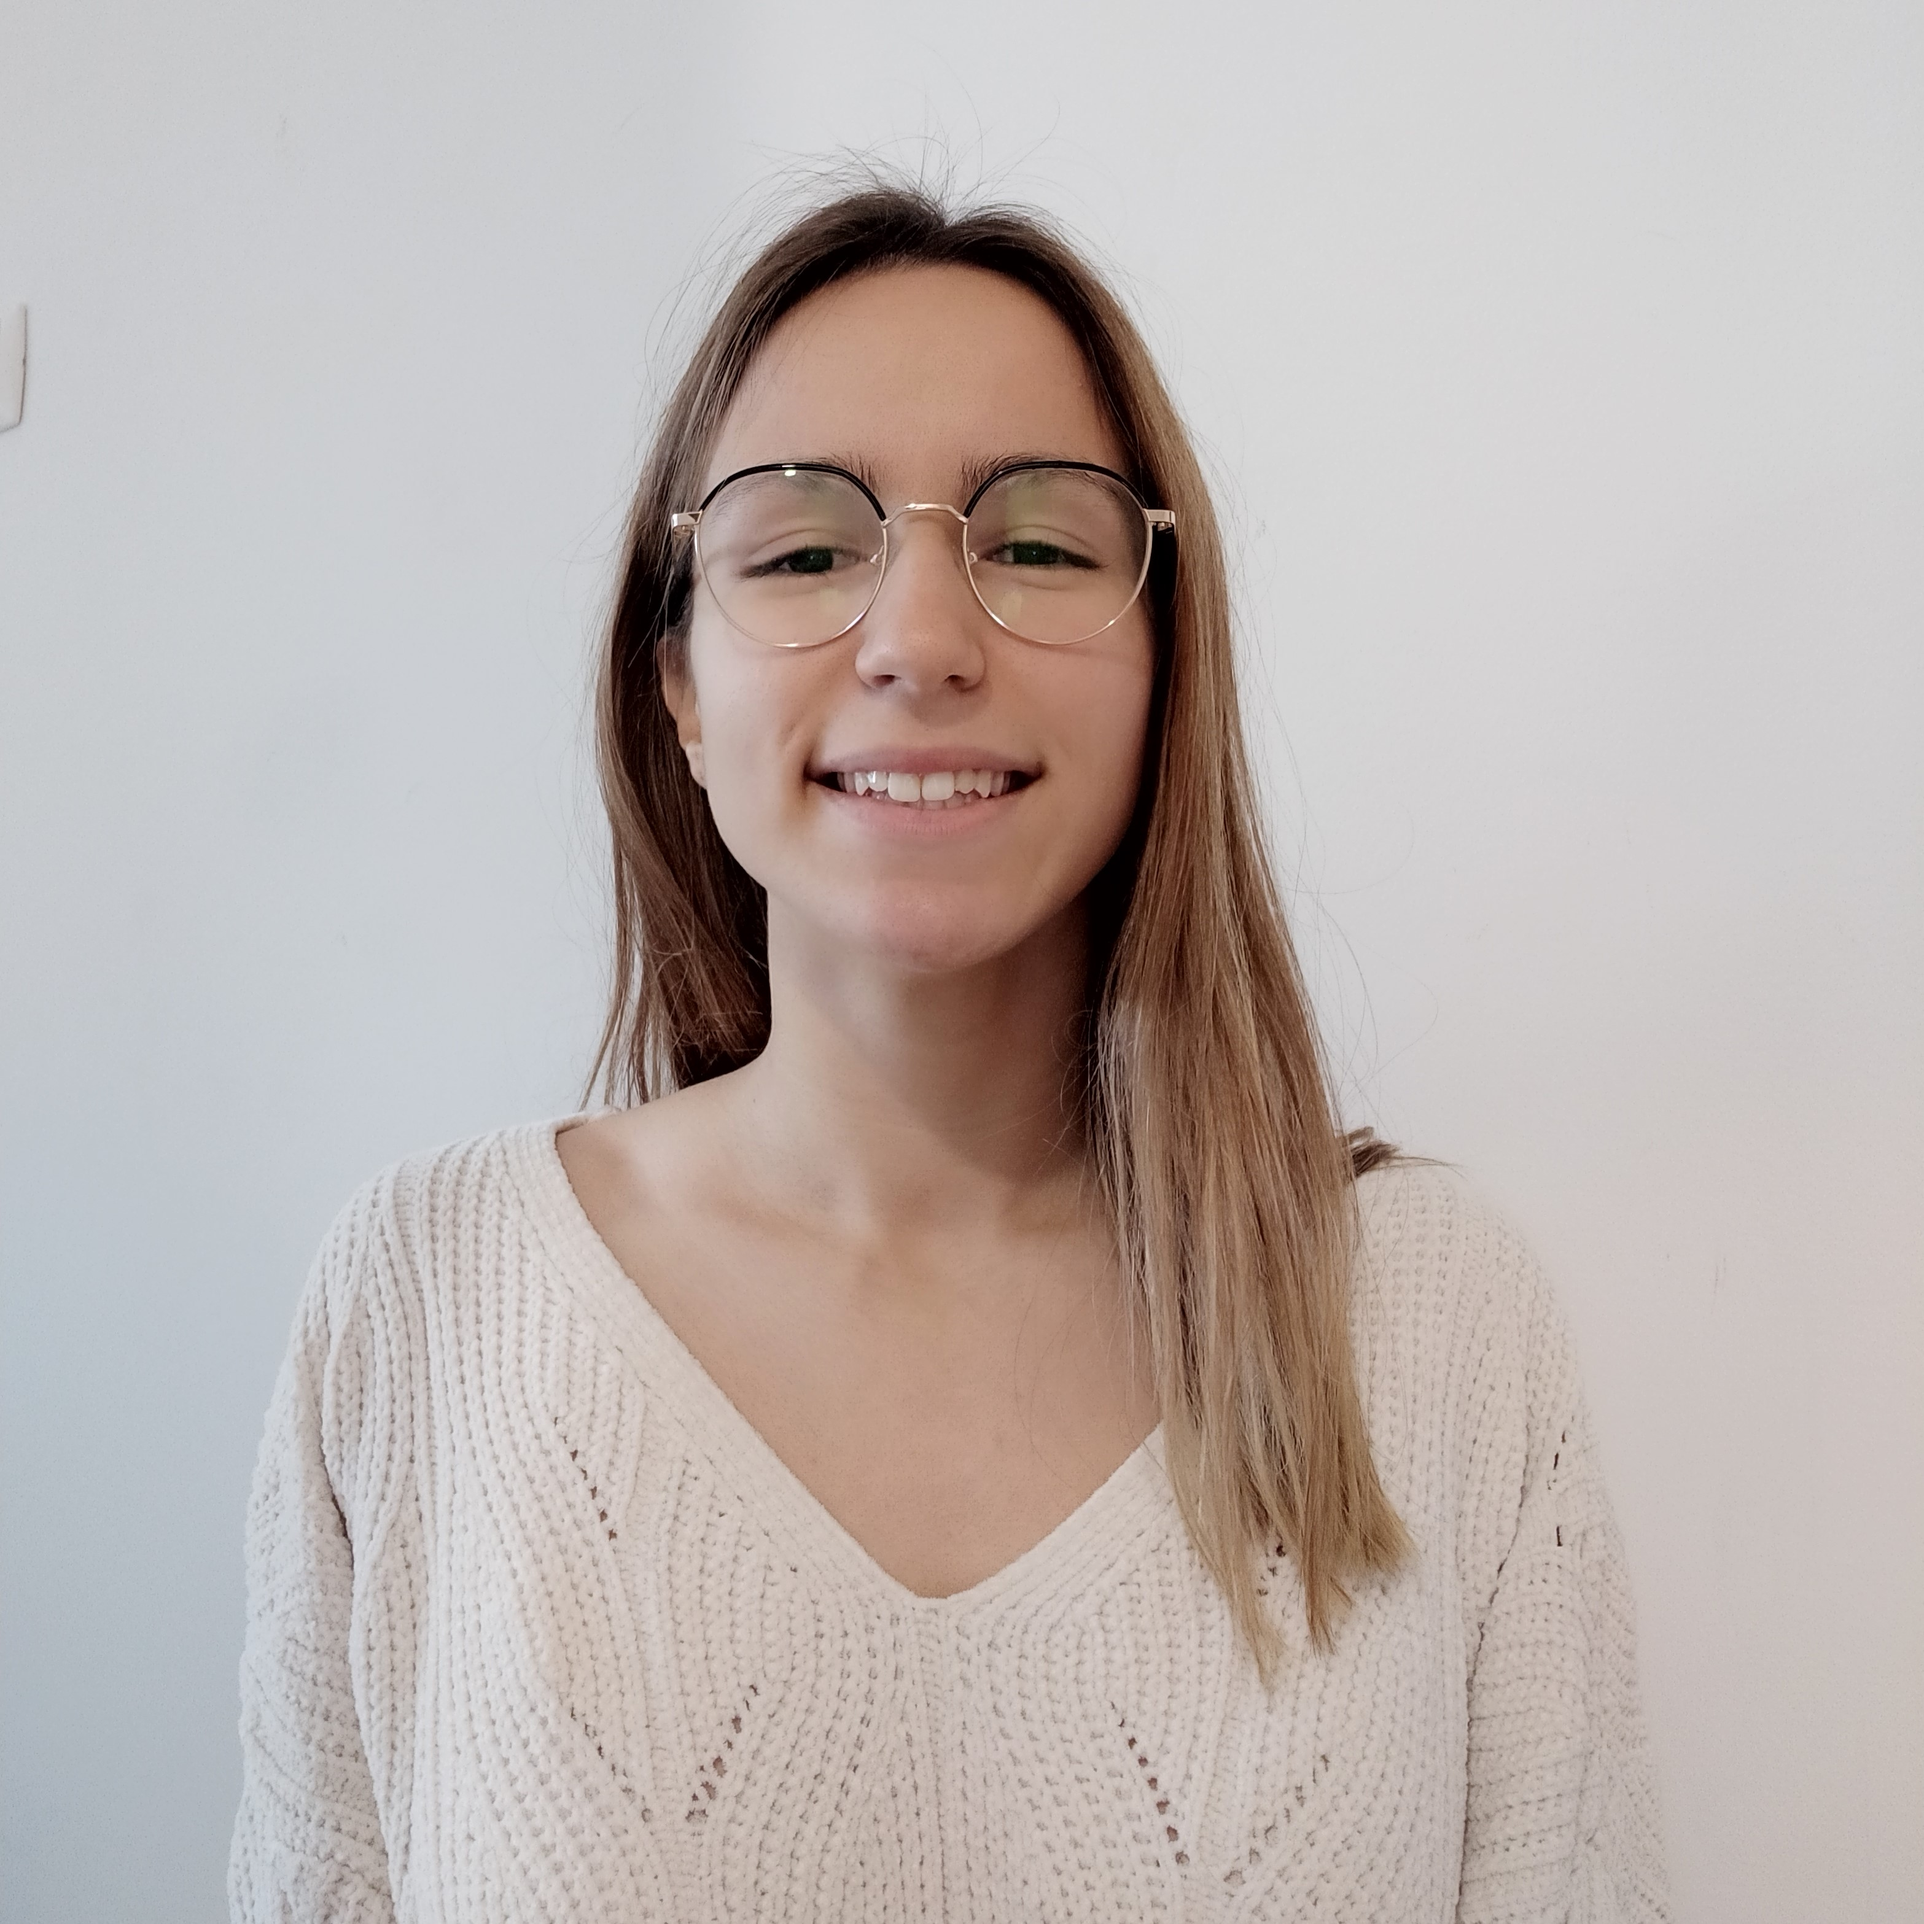
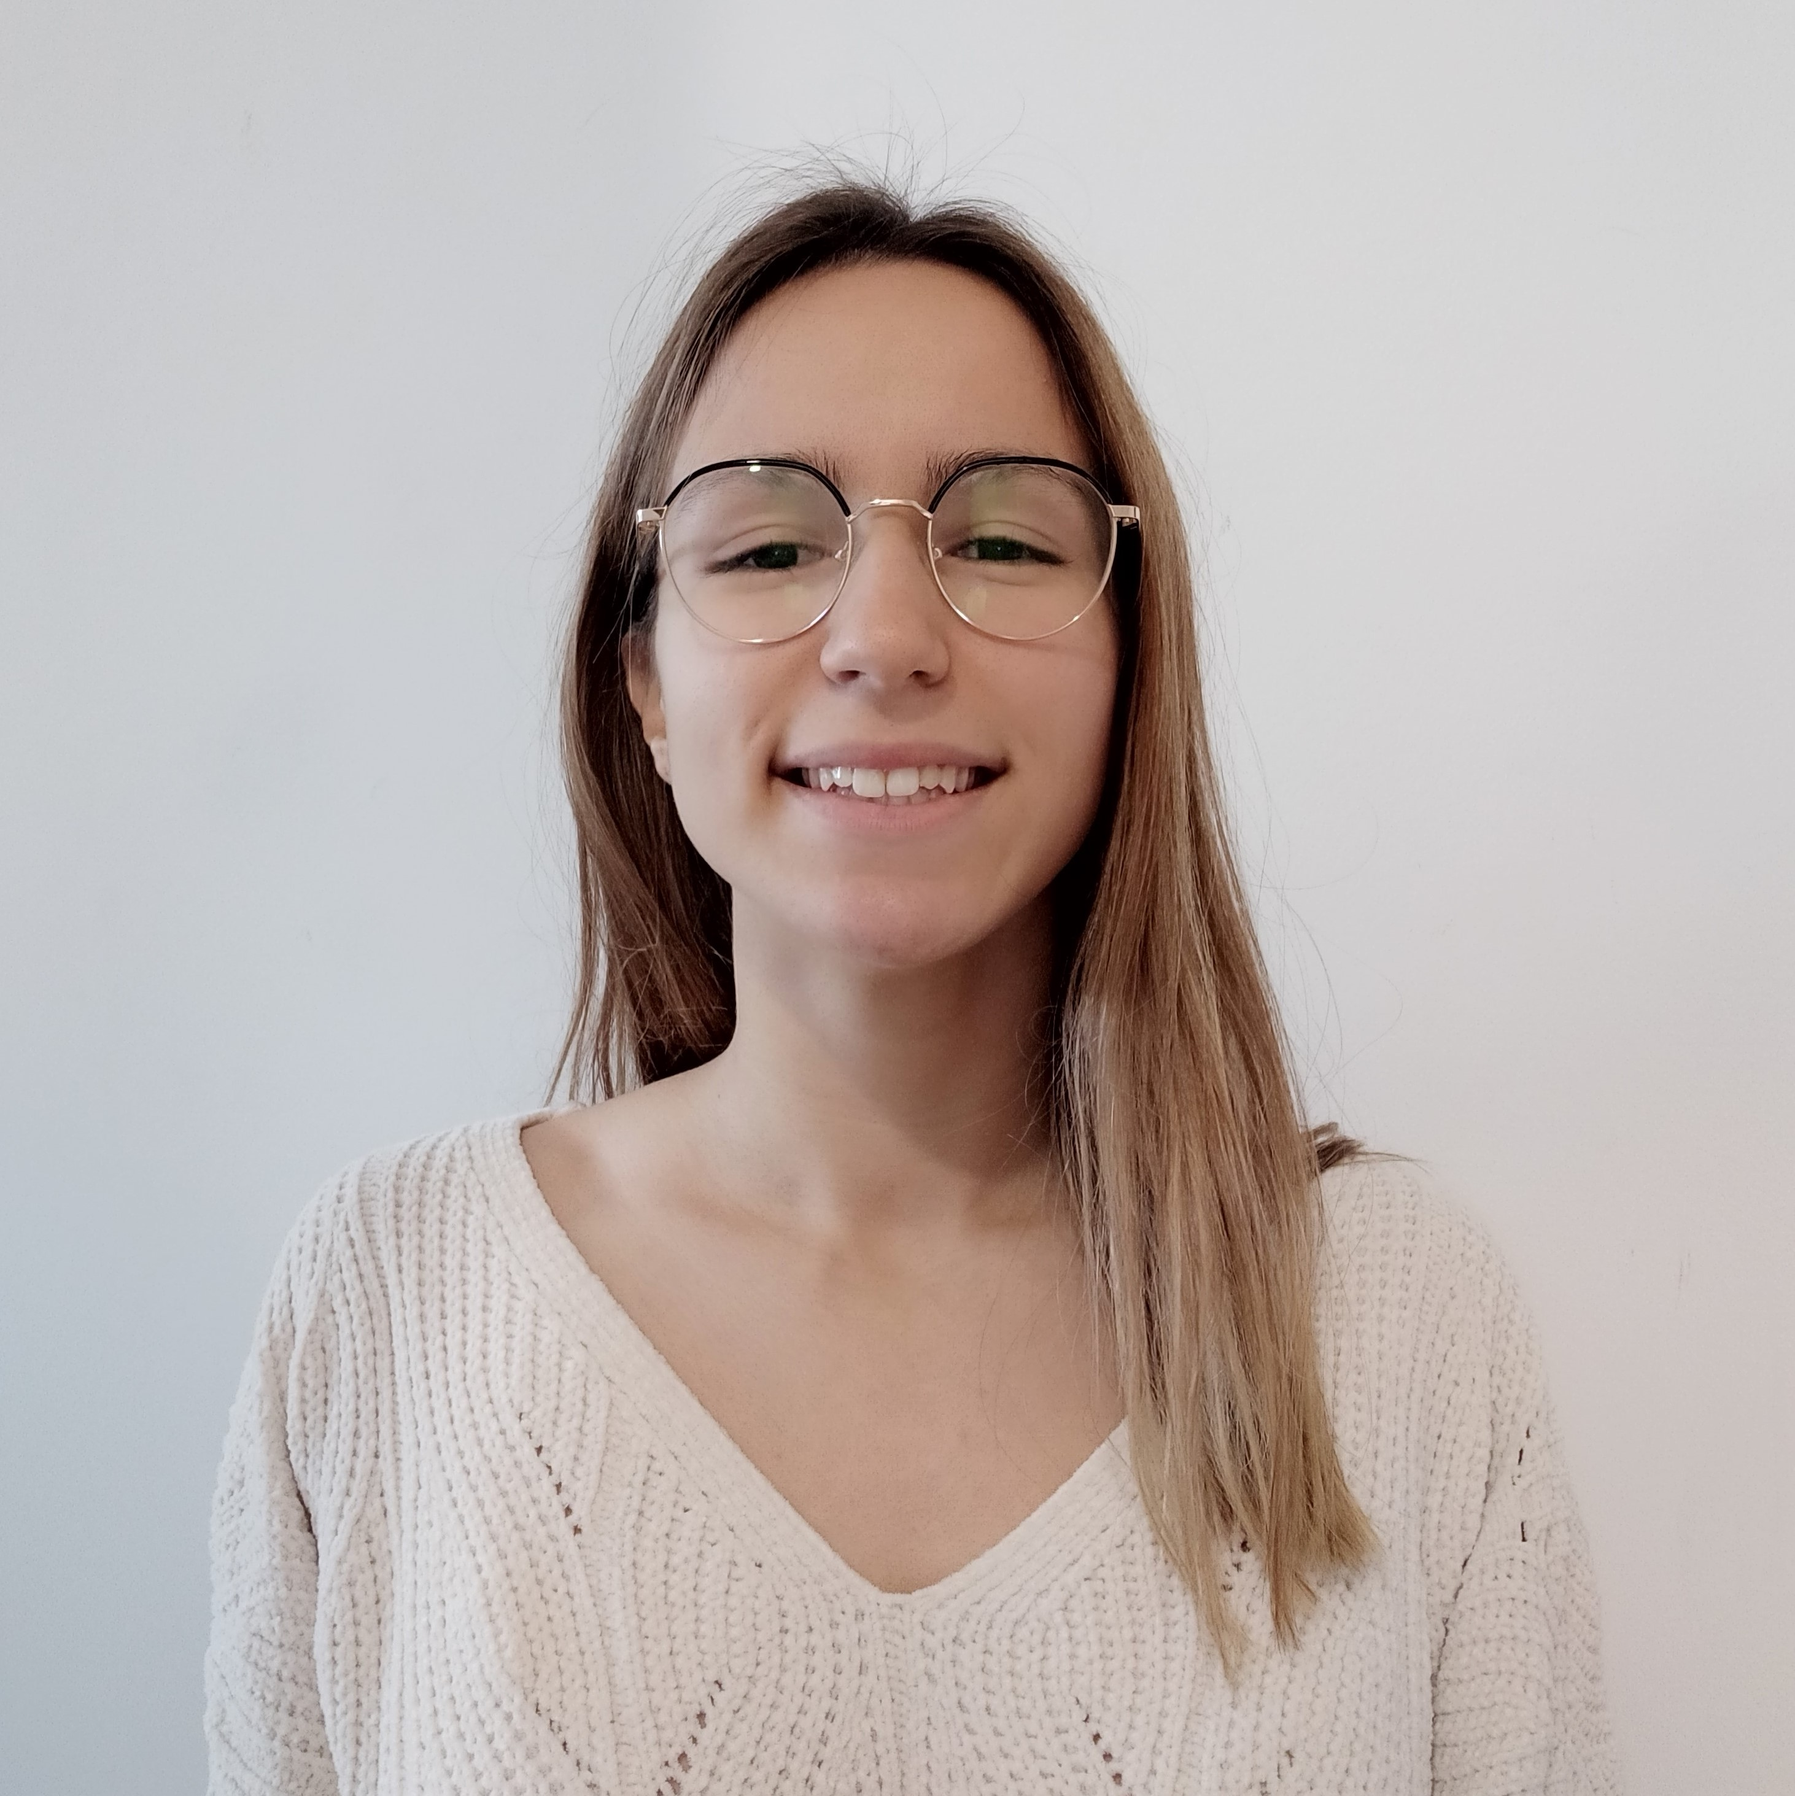
Colocadas as imagens da secção da equipa

diff --git a/index.html b/index.html
@@ -1217,7 +1217,7 @@
 
           </div>
         
-          <div class="row">
+          <!--<div class="row">
            <div style="margin-bottom: 6%" class="col-md-offset-2 col-md-8">
               <p class="bestdescription">
                O BEST (Board of European Students of Technology) é uma organização europeia sem fins lucrativos, não
@@ -1239,16 +1239,16 @@
                 providenciando a troca de conhecimento e de experiências entre jovens de toda a Europa.
               </p>
             </div>
-          </div class="row">
+          </div class="row">-->
         </div>
       </div>
 
 
     <!--banner-->
     
-      <div class=" page-middle-banner1">
+      <!--<div class=" page-middle-banner1">
           <a href="https://swordhealth.com" class="hvr-bounce-to-right" target="_blank" rel="noopener"
-            style="border-radius: 20px;">Saber mais</a>
+            style="border-radius: 20px;">Saber mais</a>-->
         
         <!-- /.opacity -->
       </div>
@@ -1550,7 +1550,7 @@
             <div class="col-lg-4 col-md-4 col-sm-4">
               <div class="single-team-member">
                 <div class="img">
-                  <img src="images/team/joana-01.jpg" alt="Joana Batista">
+                  <img src="images/team/goncalo.jpg" alt="Gonçalo Gomes">
                   <div class="opacity tran4s">
                     <h4>Gonçalo Correia</h4>
                     <span>Responsável de Conteúdo Académico<br></span>
@@ -1591,7 +1591,7 @@
             <div class="col-lg-4 col-md-4 col-sm-4">
               <div class="single-team-member">
                 <div class="img">
-                  <img src="images/team/joana-01.jpg" alt="Joana Batista">
+                  <img src="images/team/laura.jpg" alt="Laura Silva">
                   <div class="opacity tran4s">
                     <h4>Laura Silva</h4>
                     <span>Responsável de Relações Empresariais<br></span>
@@ -1633,7 +1633,7 @@
   
                 <div class="single-team-member">
                   <div class="img">
-                    <img src="images/team/catarina-01.JPG" alt="Catarina Magalhães">
+                    <img src="images/team/lisboa.jpeg" alt="Luís Lisboa">
                     <div class="opacity tran4s">
                       <h4>Luís Lisboa</h4>
                       <span>Responsável de Design<br></span>
@@ -1671,7 +1671,7 @@
               <div class="col-lg-4 col-md-4 col-sm-4">
                 <div class="single-team-member">
                   <div class="img">
-                    <img src="images/team/joana-01.jpg" alt="Joana Batista">
+                    <img src="images/team/lsilva.jpg" alt="Luís Silva">
                     <div class="opacity tran4s">
                       <h4>Luís Silva</h4>
                       <span>Responsável de Relações Públicas<br></span>
@@ -1804,7 +1804,7 @@
 
       </div>
       <!--/#pricing-section-->
-    </div>-->
+    </div>
 
     <!--
     =====================================================
